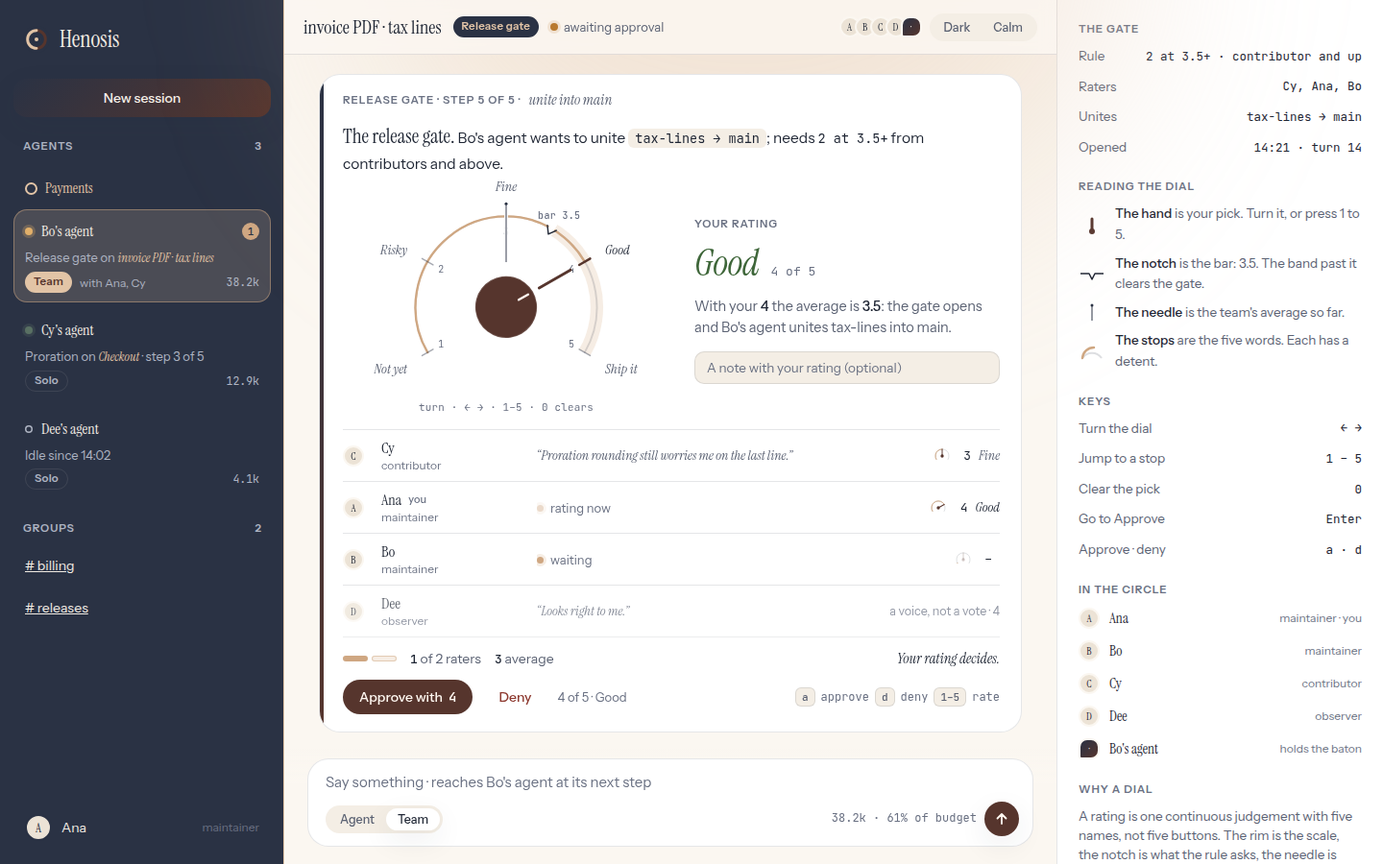
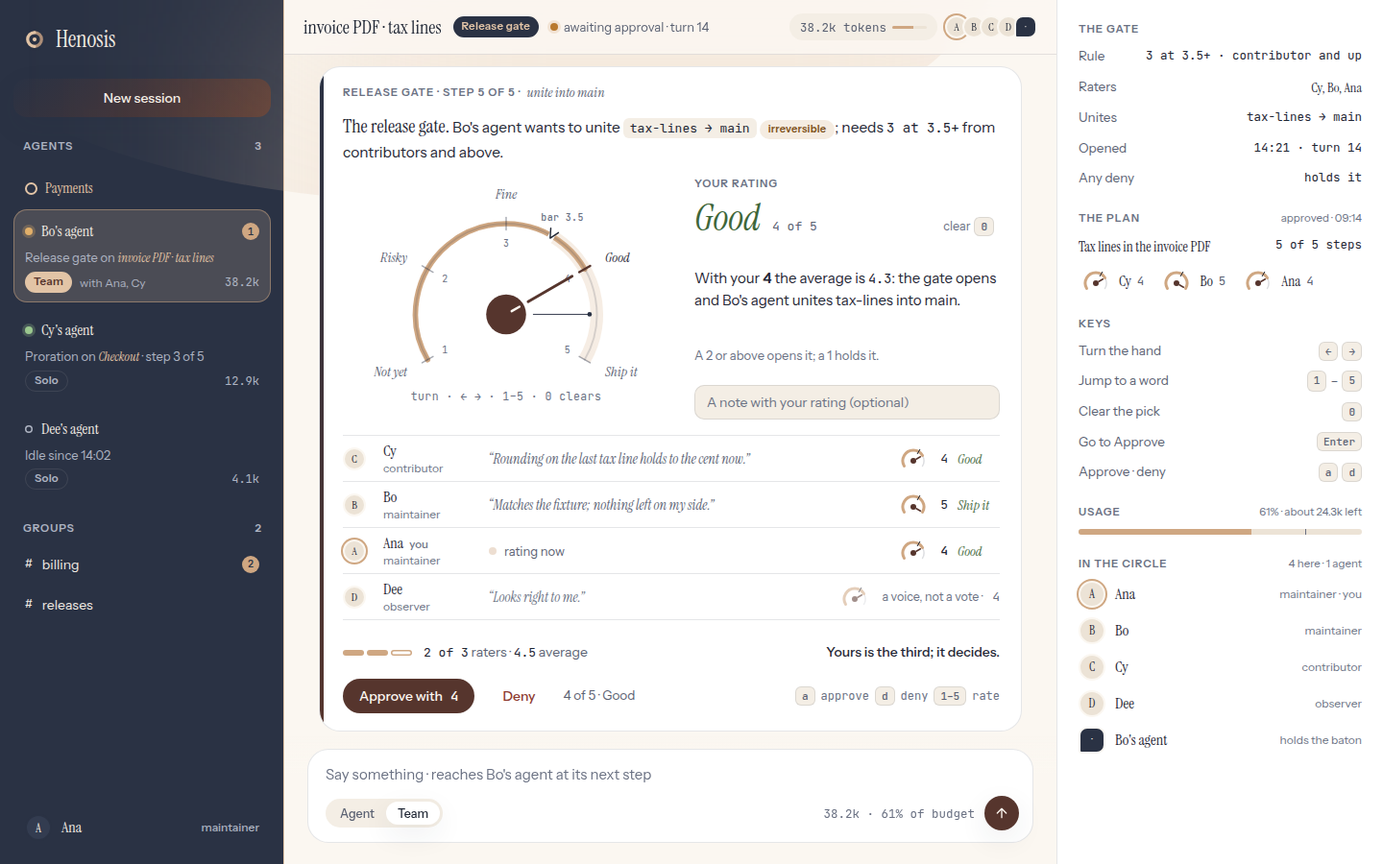
design: Henosis explorations, signature batch 25
The approval dial's renders and notes, revised while being shipped.

Claude-Session: https://claude.ai/code/session_01YPALfxci6V6KSAnMNM9o8c

diff --git a/design/henosis/explorations/sig-approval-dial/notes.md b/design/henosis/explorations/sig-approval-dial/notes.md
@@ -1,194 +1,242 @@
-# sig-approval-dial · The rating as a dial
+# sig-approval-dial · The rating as a dial (second pass)
 
-The release gate's rating control drawn as the instrument it is. A rim of five stops over 240°, each
-stop a serif word (Not yet, Risky, Fine, Good, Ship it) with a detent that pulls the hand in and
-clicks as it crosses. The rule's bar is cut into the rim as a notch, with the band past it washed
-apricot so the picks that clear the gate are a visible zone, not a sentence. The team's average so far
-is a thin needle from the centre. Your hand is the chocolate knob and its pointer; until you turn it
-the hand rests, dashed, at the 4 a plain Approve sends. The word, the number and the consequence sit
-beside the dial ("With your 4 the average is 3.5: the gate opens"), the ballots run under both as
-rows, each with a 26 px miniature of the same dial, and the one chocolate button carries the number it
-will send. Keys, drag and tap all turn the same hand.
+The release gate's 1–5 rating drawn as the instrument it is. A rim of five stops over 240°, each stop a
+serif word (Not yet, Risky, Fine, Good, Ship it) with a detent that pulls the hand in and clicks as it
+crosses. The rule's bar is cut into the rim as a notch and the band past it is washed apricot, so the
+picks that clear the gate are a zone you can see. The team's average so far is a thin needle from the
+centre. Your hand is the chocolate knob and its pointer; until you turn it the hand rests, dashed, at
+the 4 a plain Approve sends. Beside the face sit the word, the number and the consequence ("With your
+4 the average is 4.3: the gate opens"), the ballots run under both as rows each carrying a 36 px
+miniature of the same dial, and the one chocolate button carries the number it will send. Keys, drag
+and tap turn the same hand. When your approval lands and the gate opens, the rim's two ends swing down
+and close into a ring, chocolate on the person's side and navy on the agent's, and the centre lights
+apricot: the mark's own gesture, two arcs closing on one centre, performed by the gate itself.
+
+This is the second pass on the element. The first was judged 8.5 / 7.5 / 8.25 (`_judge-signature-1/2/3`)
+with seven concrete fixes, all taken here: the stop numbers moved inside the needle's reach and the
+needle drawn under the stops; the still shot with two ratings in so the needle sits between words;
+the phone's actions wrap and the hint takes its own line (the first page overflowed 39 px); your
+ballot row updates by two custom properties, never an `innerHTML` rebuild of four rows; the plan's
+ratings are the same miniature so a team learns one rating shape, and the "Reading the dial" legend
+is gone; the verdict is sans beside mono counts, one voice per row; the exploration's Dark and Calm
+buttons are `data-inspector` and hidden when the shooter opens the page (`navigator.webdriver`), so
+the stills show the product's topbar. Two of the first page's open questions are settled below.
 
 Files: `index.html` (self-contained: tokens inlined from `tokens.v5.css`, light and dark via
 `prefers-color-scheme` and `[data-theme]`, every animation inside the one guard with
 `prefers-reduced-motion` and `[data-motion="calm"]`, Fraunces and Inter asked for first with the
 Instrument and system faces as fallbacks, no external asset, no font fetched, no script loaded),
-`light.png`, `dark.png` (1440×900, the gate waiting for Ana's rating with her hand at 4), `phone.png`
-(390×844, the dial at the width of the thumb, the action at the bottom). The screenshots show the
-fallback faces: Fraunces and Inter are not on this machine and the page fetches nothing. `?pick=4`
-opens the page with the hand turned to a stop; `?locked` opens it after the approval; `?calm` opens it
-under Calm; the Dark and Calm buttons in the topbar are the exploration's own and set the attributes
-`theme.ts` sets.
+`light.png`, `dark.png` (1440×900, the gate waiting for Ana's rating with her hand at 4, Cy's 4 and
+Bo's 5 in, the needle at 4.5), `phone.png` (390×844, the dial at the width of the thumb, the action
+bar stuck at the bottom). The stills show the fallback faces: Fraunces and Inter are not on the
+render machine and the page fetches nothing. `?pick=N` opens the page with the hand turned to a stop,
+`?locked` opens it after the approval (the check drawn, the ring closed), `?calm` opens it under
+Calm, `?dark` in the dark theme.
 
 ## What it is
 
 | Part | What | Where |
 |---|---|---|
-| The rim | a 2 px arc of radius 100 on a 360 × 250 grid, from −120° to 120° with 0° at twelve, `pathLength="240"` so one unit is one degree; `--dial-rim` (navy at 16 %, cream at 16 % by night) | the dial |
-| The stops | five, 60° apart; a 14 px tick across the rim, the word outside in italic serif anchored by the side it sits on, the number inside in mono, a 48 px hit circle; the picked stop's tick turns chocolate and thickens | the rim |
-| The detent | while the hand is dragged its angle is `s + 4·d³` of the finger's value (`s` the nearest stop, `d` the distance to it, |d| ≤ ½), so the hand lingers at a word and jumps between words; crossing into a new stop pops that tick (`detent`, 180 ms, ×1.55) and, on touch, vibrates 6 ms; release snaps on `--ease-mark` over `--t` | the hand |
+| The rim | a 2 px arc of radius 100 on a 360 × 212 grid, from −120° to 120° with 0° at twelve, `pathLength="240"` so one unit is one degree; `--dial-rim` (navy at 16 %, cream at 16 % by night) | the dial |
+| The stops | five, 60° apart; a 14 px tick across the rim, the word outside at r 126 in italic serif anchored by the side it sits on, the number inside at r 78 in mono with a 3 px surface-coloured `paint-order: stroke` so it stays readable under the needle, a 48 px hit circle; the picked stop's tick turns chocolate and thickens | the rim |
+| The detent | while the hand is dragged its angle is `s + 4·d³` of the finger's value (`s` the nearest stop, `d` the distance to it, \|d\| ≤ ½), so the hand lingers at a word and jumps between words; crossing into a new stop pops that tick (`detent`, 180 ms, ×1.55) and, on Android, vibrates 6 ms; release snaps on `--ease-mark` over `--t` | the hand |
 | The notch | at the rule's bar (3.5): a 7 px cut through the rim in the surface colour and a V dented inward, `--dial-notch` (the ink); `bar 3.5` in tracked mono outside it | the rim |
 | The clear band | a 14 px arc in `--dial-zone` (apricot at 30 %, 14 % by night) from the notch to the end of the rim: where a pick clears the gate | behind the rim |
-| The needle | a 1 px line in `--dial-needle` (navy; apricot by night) from r 50 to r 114 with a cap at the tip and a 4 px surface-coloured halo under it so it cuts cleanly across a tick; rotated to the team's average of the ratings that count; hidden while there is none; turns on `--t-slow` when a rating lands | the centre |
-| The hand | a 34 px chocolate knob (`--dial-hand`, the lifted hand by night) with a cream slot, and a 3 px pointer from r 46 to r 86; `transform: rotate(var(--deg))` on `--ease-mark`; the knob sinks to .96 while pressed | the centre |
-| Rest | before a pick the hand points at `DEFAULT_RATING` with a dashed pointer and a dim slot, no fill arc, and the word reads "4 if you leave it" in `--ink-3`; the button still says "Approve with 4" (SYSTEM §10: no surface pre-selects a number with a primary colour) | the dial, the word |
-| The fill | the arc from the first stop to the hand in `--dial-fill` (apricot-deep; apricot by night), `stroke-dasharray: var(--len) 240`; a preview arc in `--dial-pre` (plain apricot: lighter than the pick, rating-control's rule) appears while a stop is hovered and the word beside says "3 of 5 · preview" | the rim |
-| The word | 38 px italic serif, coloured by level with the `-ink` tokens (danger 1, warn 2, ink 3, ok 4–5), the number in mono beside it, a crossfade (`word-in`) when it changes | right of the dial |
-| The consequence | the app's `Tally` arithmetic as a sentence: the average with your pick, whether it clears the bar, and the lowest next rating that would (`Bo at 5 would lift it`, `no third rating can lift it`) | under the word |
-| The ballots | the votes as rows (SYSTEM §10, surfaces panel): serif name with `you`, role in faint sans, the note in italic serif, the 26 px miniature dial with the number and the word; a waiting rater's miniature is empty with "waiting"; your row mirrors the big dial live under "rating now" with the breathing apricot dot; an observer's approve is "a voice, not a vote · 4", dimmed | under the dial and the word |
-| The tally | the quorum segments, `1 of 2 raters · 3 average`, and the verdict in italic serif ("Your rating decides.", "The gate opens.", "Under the bar: the release waits for Bo or a revision.") | under the rows |
-| The actions | *Approve with 4* (the hand, with the number in mono), *Deny* in the danger ink, the hint "4 of 5 · Good" or "4 if you leave it", the notice's keys `a` `d` `1–5` | last |
-| Locked | after Approve the hand stays, the slot and pointer fade, a check draws inside the knob (`draw`, 450 ms; drawn flat under Calm), the word gains "· sent", your row takes the note, the tally settles, a toast rises | the dial, the rows |
-| Keys | the dial is one `role="slider"` (1–5, `aria-valuetext` "4 of 5, Good"): ← → ↑ ↓ turn by one stop, 1–5 jump, Home/End, 0 clears to rest, Enter moves to *Approve with N*, Esc drops a preview; on the notice `a` approves, `d` denies, 1–5 rate while nobody types; a polite live region reads the word and the consequence | the dial, the notice |
-| Touch | the whole face is the drag surface (`touch-action: none`, pointer capture); a tap on a word picks it, a second tap on the pick clears; the bottom line reads "turn the hand, or tap a word" on coarse pointers | the phone |
-| Phone | the rail and drawer fold away, the dial fills the width with the words a step larger, the word and consequence centre under it, the rows lose their note column, *Approve with N* is a 46 px bar at the thumb | 390 |
+| The needle | a 1 px line in `--dial-needle` (navy; apricot by night) from r 30 to r 92 with a cap at the tip and a 4 px surface-coloured halo under it, drawn **under** the stops so a number stays whole when the average lands on a word; rotated to the team's average of the ratings that count; hidden while there is none; turns on `--t-slow` when a rating lands | the centre |
+| The hand | a 44 px chocolate knob (`--dial-hand` = the hand, lifted by night) with a cream slot, and a 3 px pointer from r 28 to r 84; `transform: rotate(var(--deg))` on `--ease-mark`; the knob sinks to .94 while pressed | the centre |
+| Rest | before a pick the hand points at `DEFAULT_RATING` with a dashed pointer and a dim slot, no fill arc; the word reads "Good" in `--ink-3` with "4 if you leave it" beside it and the sentence says "A plain Approve sends 4"; the button still says "Approve with 4" (SYSTEM §10: no surface pre-selects a number with a primary colour) | the dial, the word |
+| The fill | the arc from the first stop to the hand in `--dial-fill` (apricot-deep; apricot by night), `stroke-dasharray: var(--len) 240`; a preview arc in `--dial-pre` (plain apricot: lighter than the pick, rating-control's rule) appears while a stop is hovered and the number reads "3 of 5 · preview" | the rim |
+| The word | 38 px italic serif, coloured by level with the `-ink` tokens (danger 1–2, warn 3, ok 4–5), the number in mono beside it, "clear `0`" as a 24 px ghost when a pick is in, a crossfade (`word-in`) when it changes | right of the dial |
+| The consequence | the app's `Tally` arithmetic as two sentences: the average with your pick and whether it clears the bar; then the lowest pick that opens it ("A 2 or above opens it; a 1 holds it.", "No third rating can lift the average to the bar.") | under the word |
+| The ballots | the votes as rows (SYSTEM §10, surfaces panel): serif name with `you`, role in faint sans, the note in italic serif, the 36 × 28 miniature with the number and the word; a waiting rater's miniature is an empty dashed rim with "waiting"; your row mirrors the big dial live under "rating now" with the breathing apricot dot; an observer's approve is "a voice, not a vote · 4", dimmed | under the dial and the word |
+| The tally | the quorum segments (`role="meter"`), `2 of 3 raters · 4.5 average` with the counts in mono, and the verdict in sans 500 ("Yours is the third; it decides.", "The gate opens.", "Under the bar; waits for a revision."), coloured through `--ok-ink` / `--warn-ink` only once decided | under the rows |
+| The actions | *Approve with 4* (the hand, the number in mono), *Deny* in `--danger-ink`, the hint "4 of 5 · Good" or "4 if you leave it", the notice's keys `a` `d` `1–5` | last |
+| Locked | after Approve the hand stays, the slot and pointer fade, a check draws inside the knob (`draw`, 450 ms); if the gate opens, the rim's two ends swing to six o'clock (`ring-close`, 600 ms, the person's end chocolate, the agent's navy) and the centre lights (`centre-in`, an apricot ring round the knob); the word gains "· sent", your row takes your note, the tally settles, a toast rises on navy; under the bar the ring stays open and the verdict says so | the dial, the rows |
+| Keys | the dial is one `role="slider"` (1–5, `aria-valuetext` "4 of 5, Good" / "4 if you leave it", `aria-describedby` the consequence): ← → ↑ ↓ turn by one stop, 1–5 jump, Home/End, 0 clears to rest, Enter moves to *Approve with N*, Esc drops a preview; on the notice `a` approves, `d` denies, 1–5 rate and 0 clears while nobody types; a polite live region reads the word, the number and the consequence on every change | the dial, the notice |
+| Touch | the whole face is the drag surface (`touch-action: none`, pointer capture); a tap on a word picks it; the bottom line reads "turn the hand, or tap a word" on coarse pointers | the phone |
+| Phone | the rail and drawer fold away, the dial fills the width with the words a step larger, the word and consequence centre under it, the rows lose their note column, the actions are a bar stuck to the bottom of the stream (`position: sticky`; the notice's `overflow` becomes `clip-path` so it does not become the bar's scrollport) with *Approve with N* at 46 px and the hint on its own line | 390 |
+| The plan | the plan's rating row and the drawer's "The plan" group use the same miniature (`MiniDial`), so the shape a rater meets at 09:14 on the plan is the shape at 14:21 on the gate; no legend is needed anywhere | the stream, the drawer |
 
 ## Why it is ours
 
-- **It is the ring with a hand in it.** The brand is two arcs closing on one centre; a gate is the
-  team's arcs closing on one decision. The rim is the open ring (the mark's apart pose: not yet one),
-  the needle is where the others have put the centre so far, and your hand closes the gap or leaves it
-  open. The miniature in every ballot row is the same drawing, so a page of votes reads as a row of
-  small rings each with its hand (presence-and-agents §9, the agreement ring: closed where they agree,
-  open where they differ; data-craft §6, the rating glyph with a line at the required average).
+- **It is the ring with a hand in it, and it closes.** The brand is two arcs closing on one centre; a
+  gate is the team's arcs closing on one decision. The open rim is the mark's apart pose (not yet one),
+  the needle is where the others have put the centre so far, your hand closes the gap or leaves it
+  open, and when the gate opens the two ends of the rim swing down and meet: the person's end in
+  chocolate, the agent's in navy, the centre in apricot, the mark's own ground rule for cream (SYSTEM
+  §5, brand-board's table). The first pass only implied the mark through the rim; the panel said so,
+  and the ring-close is the answer. The miniature in every ballot row is the same drawing, so a page
+  of votes reads as a row of small rings each with its hand (presence-and-agents §9, the agreement
+  ring; data-craft §6, the rating glyph with a line at the required average).
 - **It refuses the five-star row.** Five stars is the rating control of every store and every chat
   product's thumbs-up grown by three; a dial with a notch and a needle is an instrument you read
   before you turn it, and it puts the three numbers a gate is about (your pick, the bar, the average)
-  on one face instead of in three sentences (ai-interfaces-avoid: the artifact becomes the interface;
-  Wattenberger's controls baked into the interface rather than prose). Nothing on it is a star, a
-  sparkle or a pill.
-- **Colour by job, one meaning each** (SYSTEM principles 1, 2, 4, 5). The rim and the needle are
-  navy stepped in lightness, data-craft's rule that data ink is Dress Blues; the fill is the pulse's
-  deep step like every meter; the only chocolate on the face is the knob and its pointer, because it
-  is the one thing you press, and the only other chocolate on the screen is *Approve with 4*; the
-  clear band is the apricot wash that elsewhere means "where you are"; the status hues appear only in
-  the word, against the gate, through the `-ink` tokens. By night the hand is the lifted chocolate and
-  the needle is apricot, so the drawing is the same at night (dark-mode: re-weighed, not inverted).
+  on one face instead of in three sentences (ai-interfaces-avoid: Wattenberger's controls baked into
+  the interface rather than prose; the artifact as the interface). Nothing on it is a star, a sparkle
+  or a pill. It is now the one rating shape in the product, on the plan as well as the gate (judge 3's
+  fix), so it is not a second idiom beside stars.
+- **Colour by job, one meaning each** (SYSTEM principles 1, 2, 4, 5; data-craft's palette rule). The
+  rim and the needle are navy stepped in lightness, the fill is the pulse's deep step like every
+  meter, the only chocolate on the face is the knob and its pointer because it is the one thing you
+  press, the only other chocolate on the screen is *Approve with 4*; the clear band is the apricot
+  wash that elsewhere means "where you are"; the status hues appear only in the word, against the
+  gate, through the `-ink` tokens. By night the hand is the lifted chocolate and the needle is apricot,
+  so the drawing is the same at night (dark-mode: re-weighed, not inverted). The closing arcs keep
+  their ground colours in both themes, like the mark's.
 - **The detent is motion that means something** (MOTION principles 1, 2, 7; motion-choreography: the
-  Family and Kowalski rules, interruptible, on the mark's curve, overshoot keyed by hand). The hand
-  travels on `--ease-mark`, the one curve for anything that travels; the click is the status pulse's
-  `pop` in miniature on the stop you crossed; the check is the granted approval's drawn stroke. Rest
-  is the end state: every transition reads the clocks, the clocks are zero under Calm and reduce, and
-  the page opens as a finished instrument at whatever state it is asked for.
-- **Progress bound to real arithmetic** (motion-choreography §6). The needle is `ratingProgress`'s
-  average, the notch is `rule.ratings.average`, the quorum segments are `rule.ratings.min`, the
-  consequence is `Tally`'s lift. Nothing on the face is decorative; the drawer's legend names each
-  part in a sentence so no colour carries a meaning alone (SYSTEM §18).
+  Kowalski and Family rules, interruptible, overshoot keyed by the hand). The hand travels on
+  `--ease-mark`, the one curve for anything that moves; the click is the status pulse's `pop` in
+  miniature on the stop you crossed; the check is the granted approval's drawn stroke (MOTION §6.5);
+  the ring-close is the join timeline in miniature (arcs then centre, MOTION §7). Rest is the end
+  state: every keyframe declares its `from`, the transitions read the clocks, the clocks are zero under
+  Calm and reduce, and the page opens as a finished instrument at whatever state it is asked for.
+- **Progress bound to real arithmetic** (motion-choreography §6, data-craft's annotation rule). The
+  needle is `ratingProgress`'s average, the notch is `rule.ratings.average`, the quorum segments are
+  `rule.ratings.min`, the consequence is `Tally`'s lift. Nothing on the face is decorative and nothing
+  needs a legend: every colour has its sentence beside it (SYSTEM §18).
 - **Named things are serif, read things are sans, counts are mono** (SYSTEM principle 6;
   editorial-type §7 for the tracked mono `bar 3.5` and the stop numbers; premium-product-ui §9
-  Fraunces for the words and the names, Inter for the consequence and the button). The five words are
-  the scale's names, so they are serif on the face and italic beside it; the pick's number is mono
-  wherever it appears, tabular, so "4 of 5" and "3.5 average" line up in every row.
+  Fraunces for the words and the names, Inter for the consequence and the button). The five words
+  are the scale's names, so they are serif on the face and italic beside it; the pick's number is mono
+  wherever it appears, tabular, so "4 of 5" and "4.5 average" line up in every row; the verdict is
+  sans because it is read, beside mono counts, one voice per row (judge 3's note).
 - **It is not Claude's, ChatGPT's or Linear's.** None of them rates anything with a dial; a gauge with
-  a notch for a rule and a needle for a team's average belongs to a product whose claim is that people
-  gate what agents ship. The navy rim, the apricot band and the chocolate hand keep it in the three
-  colours and off the clay-and-ivory of Claude (SYSTEM principle 10; three-colour-brands: take the
-  discipline, not the hue).
+  a notch for a rule, a needle for a team's average and a ring that closes when people and an agent
+  agree belongs to a product whose claim is that people gate what agents ship. The navy rim, the
+  apricot band and the chocolate hand keep it in the three colours and off the clay-and-ivory of
+  Claude (SYSTEM principle 10; three-colour-brands: take the discipline, not the hue).
 
 ## The technique
 
-- **One SVG, built once, driven by four custom properties.** The rim, the band, the notch, the five
-  stops and the needle are placed by `pt(angle, r)` at mount; after that the script only sets `--deg`
-  (the hand), `--len` (the fill, in degrees because `pathLength="240"`), `--plen` (the preview) and
-  `--avg-deg` (the needle) on the dial, and toggles `rest`, `previewing`, `dragging`, `pressing`,
-  `locked`, `noavg` and the stop's `cur` / `pre` / `click`. CSS does the rest: the hand and the
-  needle rotate with `transform-box: view-box; transform-origin: 180px 128px`, the fill is a dasharray
-  transition, the knob's press is a scale. Fifty SVG nodes.
+- **One SVG, built once, driven by four custom properties.** The band, the rim, the fill, the preview,
+  the closing arcs, the notch, the five stops, the needle and the hand are placed by `pt(angle, r)` at
+  mount; after that the script only sets `--deg` (the hand), `--len` (the fill, in degrees because
+  `pathLength="240"`), `--plen` (the preview) and `--avg-deg` (the needle) on the dial, and toggles
+  `rest`, `previewing`, `dragging`, `pressing`, `locked`, `open`, `noavg` and the stop's `cur` / `pre`
+  / `click`. CSS does the rest: the hand and the needle rotate with `transform-box: view-box;
+  transform-origin: 180px 136px`, the fill is a dasharray transition, the knob's press is a scale.
+  48 SVG nodes.
 - **The detent is one line of arithmetic**: `detent(v) = s + 4·(v − s)³`. Continuous at the half-way
   points (±½ → ±½), flat at the stops (the cube), so a finger sweeping the rim feels each word catch
   and let go. Crossing is detected on the rounded value, which is also what the pick becomes, so the
   hand can never rest between words. Pointer capture keeps the drag alive off the face; the bottom gap
   (beyond ±120°) resolves to the nearer end so a swipe past Ship it does not flip to Not yet.
+- **The ring-close is two dashoffsets.** Each closing arc is 60° of the same circle with
+  `pathLength="60"`, `stroke-dasharray: 60`, and its rest state (`stroke-dashoffset: 0`) is written on
+  `.dial.locked.open .close` outside the guard; the keyframe `ring-close` goes `from 60` to `0`, 400 ms
+  after the check starts, and `centre-in` pops the apricot ring at 950 ms, so under Calm the closed
+  ring and the lit centre are simply present (MOTION §3: a guard that only adds motion cannot hide a
+  rest state).
 - **Transitions for travel, keyframes for events, all under one guard.** The eight animation rules
-  (`detent`, `word-in`, `dot-live` ×2, `draw`, `toast-up`, `card-in`) live inside
-  `@media (prefers-reduced-motion: no-preference) { :root:not([data-motion="calm"]) … }`; the
+  (`detent`, `word-in`, `dot-live`, `draw`, `ring-close`, `centre-in`, `toast-up`, `card-in`) live
+  inside `@media (prefers-reduced-motion: no-preference) { :root:not([data-motion="calm"]) … }`; the
   transitions read `--t`, `--t-fast`, `--t-slow`, which the calm attribute and the reduce query set to
   zero. The click's class is removed on a 200 ms timer, never on `animationend`, which does not fire
-  under Calm. The drawn check's rest state (`stroke-dashoffset: 0`) is written on `.locked .check`
-  outside the guard, so Calm shows the check.
+  under Calm; the toast's delay reads `--motion` and is zero under Calm.
 - **The miniature is the same geometry at r 11**, a 36 × 28 view with the same `--deg` / `--len`
-  properties, so a ballot row and the big dial can never disagree about where 4 points.
-- **Accessibility.** The dial is a single `role="slider"` with `aria-valuetext`, described by the
-  consequence; the stops are hit areas inside it, not separate controls, so a screen reader meets one
-  thing with one value; the word, the number and the consequence are text beside every colour; the
-  needle and notch have their sentence in the drawer's legend; focus is the 2 px `--focus-ring` with
-  the 6 px halo on the dial's rounded box; the fastest change is the 180 ms click on a tick.
+  properties and the notch at the same angle, so a ballot row, the plan card and the big dial can
+  never disagree about where 4 points.
+- **Your row is two properties.** `render()` sets `--deg` and `--len` on your miniature and two words
+  in your row; the other rows are built once. The per-press cost that remains is the word's crossfade
+  restart (one forced layout) and the consequence sentence.
+- **Accessibility.** The dial is a single `role="slider"` with `aria-valuetext` and
+  `aria-describedby` on the consequence; the stops are hit areas inside it, not separate controls, so a
+  screen reader meets one thing with one value; the word, the number and the consequence are text
+  beside every colour; the quorum is a `role="meter"`; the live region reads each change once; focus
+  is the 2 px `--focus-ring` with the 6 px halo on the dial's rounded box; every control is 24 px or
+  more (measured: none under); the rail's role text is `--rail-muted` (6.6 : 1 on navy).
 
 ## The cost
 
-Measured headless (Chromium 1440×900 and 390×844), the page at `?pick=4`.
+Measured headless (Chromium 1440×900 and 390×844), the page at `?pick=4`, 200 key presses 1–5.
 
 | | 1440×900 | 390×844 |
 |---|---|---|
-| SVG nodes in the dial | 45 | 45 |
-| nodes in the four ballot rows | 54 | 54 |
-| script per key press (1–5), 200 presses | 5.2 ms | 2.9 ms |
+| SVG nodes in the dial | 48 | 48 |
+| nodes in the four ballot rows | 69 | 69 |
+| nodes on the page | 408 | 408 |
+| script per key press (1–5) | 1.9 ms | 3.4 ms |
+| animations running at rest | 1 (the breathing dot) | 1 |
+| animations running under reduce, locked | 0, the check drawn and the ring closed | 0 |
+| horizontal overflow | 0 px | 0 px |
+| controls under 24 px | none | none |
 | JS heap after mount | 9.5 MB (the page, not the dial) | 9.5 MB |
-| page, uncompressed | 66 KB (tokens, styles, the rail and drawer, the script) | |
-| at rest, Calm or reduce | still; no clock | |
+| page, uncompressed | 72 KB (tokens, styles, the rail and drawer, the script) | |
 
-The 5 ms per press is the exploration's own waste: `render()` rebuilds the four ballot rows with
-`innerHTML` and forces one layout to restart the word's crossfade. Dragging sets two custom properties
-per `pointermove` and nothing else, so the compositor animates one rotation and one dasharray; the
-click is one `transform` keyframe on a 14 px line. In the app the rows are React children and only
-your row's two properties change per press, so the per-press cost is the slider's `setState`.
+The 1.9 ms per press (5.2 ms in the first pass) is the consequence sentence plus the one forced layout
+that restarts the word's crossfade. Dragging sets two custom properties per `pointermove` and nothing
+else, so the compositor animates one rotation and one dasharray; the click is one `transform`
+keyframe on a 14 px line; the ring-close is two dashoffsets and one opacity. In the app your row is a
+React child and only its two properties change per press, so the per-press cost is the slider's
+`setState`.
 
 ## How it ports into `apps/web`
 
-The dial replaces `Stars` only where a gate is rated: the release-gate notice in the stream, its
-sheet on the phone, and the approvals queue's expanded row. The plan card keeps `Stars` (a plan has
-no bar and no needle; see Open).
+The dial replaces `Stars` everywhere a rating is picked, and `MiniDial` replaces `MiniStars`
+everywhere a rating is shown, so the product has one rating shape (judge 3's fix). The gate's face has
+the notch and the needle; the plan's face has neither (a plan's rule has a minimum but no bar), which
+is `bar={null}` and `average={null}` on the same component.
 
 1. **`apps/web/src/stream/RatingDial.tsx`** (new): the `<script>`'s builder as a component
-   `RatingDial({ value, onChange, onClear, bar, average, count, min, locked, size })`. `bar` and
-   `average` come from `ratingProgress(s, a)` (`approvalsQueue.ts`: `{ count, min, average, bar }`),
-   `value` is the notice's `rating` state, `onClear` the `0` key. Build the SVG once with JSX
-   (`useMemo` on `bar`); drive it with the four style properties and the classes exactly as the
-   exploration does; the detent, the drag and the keys are the exploration's handlers; `motionNow()`
-   / `useMotion()` is read only to skip the 200 ms click timer. Export `MiniDial({ value })` from the
-   same file for the rows.
-2. **`apps/web/src/stream/ApprovalNotice.tsx`**: in the `.rating` block, replace
-   `<Stars value={rating} onChange={setRating} />` (the line under `copy.plan.yourRating`) with
-   `<RatingDial value={rating} onChange={setRating} onClear={() => setRating(null)} bar={gate.bar}
-   average={gate.average} count={gate.count} min={gate.min} />`; move the `.picked` mono and the note
-   input beside it into the `.say` column; give `Tally` the verdict line and let `Ballot` (the rows
-   with `kind="waiting" | "voice"`) render `<MiniDial>` in place of `.mini` stars. `Decided` passes
-   `locked` so the dial draws its check. The `1–5` keys on the notice already exist (`onKeyDown`).
-3. **`apps/web/src/copy.ts`**: `approval.withoutPick(n)` becomes `"${n} if you leave it"`
-   (SYSTEM §10's hint), `approval.picked(n)` stays `"${n} of 5"`, and the consequence sentences
-   (`opens`, `underBar(lift)`, `cannotLift`) join `approval.oneMore` / `lifts` / `cannotLift`, which
-   already exist; the dial's `aria-valuetext` is `copy.rating.name(n)`.
-4. **`apps/web/src/tokens.css`**: the nine `--dial-*` properties (`rim`, `zone`, `fill`, `pre`,
-   `hand`, `hand-fg`, `needle`, `tick`, `notch`) in the light block and, byte-identical, in both dark
-   blocks (values in `index.html`'s `:root` and dark blocks). **`theme.ts`** `applyTeamTheme`: set
-   `--dial-hand` from the team's hand with the other `--team-*` properties.
-5. **`apps/web/src/styles.css`**: the rules under "the dial itself", "the ballots" and "the tally and
-   the actions" from `index.html` (about 90 lines) beside `.notice .rating`; the seven animation
-   rules into the existing guard block; the keyframes `detent` and `word-in` beside `pop` and
-   `dot-live`; the `≤ 640` star-tile block becomes the phone block from this page (the dial fills the
-   width, the action bar at the thumb).
-6. **`apps/web/src/views/Approvals.tsx`** (the queue) and the mobile approvals sheet: the expanded
-   row rates with `<RatingDial size="sm">` (the 340 px face at 260), the collapsed row shows
-   `<MiniDial>` per rater; the Slack adapter is untouched and still sends 4.
+   `RatingDial({ value, onChange, onClear, bar, average, count, min, locked, open, size })`. `bar`
+   and `average` come from `ratingProgress(s, a)` (`approvalsQueue.ts`: `{ count, min, average, bar }`),
+   `value` is the notice's `rating` state, `onClear` the `0` key, `open` whether the decided gate
+   cleared its bar (the ring closes only then). Build the SVG once with JSX (`useMemo` on `bar`);
+   drive it with the four style properties and the classes exactly as the exploration does; the
+   detent, the drag and the keys are the exploration's handlers; `motionNow()` / `useMotion()` is read
+   only to skip the 200 ms click timer and the toast's wait. Export `MiniDial({ value, bar? })` from
+   the same file for the rows.
+2. **`apps/web/src/stream/ApprovalNotice.tsx`**: in the `.rating` block, replace both branches
+   (`<StarTiles …>` on the phone and `<Stars value={rating} onChange={setRating} />` on desktop,
+   under `copy.plan.yourRating`) with one `<RatingDial value={rating} onChange={setRating}
+   onClear={() => setRating(null)} bar={gate.bar} average={gate.average} count={gate.count}
+   min={gate.min} />`; move the `.picked` mono and the note input beside it into the `.say` column;
+   give `Tally` the verdict line as sans; let `VoteRow` (`kind="rated" | "waiting" | "voice"`) render
+   `<MiniDial>` in place of `<MiniStars>`. `Decided` passes `locked` and `open` so the dial draws its
+   check and closes its ring. The `1–5` keys on the notice already exist (`onKeyDown`); add `0`.
+   `StarTiles.tsx` and the `.star-tiles` blocks in `styles.css` go.
+3. **`apps/web/src/stream/PlanCard.tsx`**: `<Stars value={mine?.rating ?? null} …>` becomes
+   `<RatingDial size="sm" bar={null} average={null} …>` on the `.rating` row, and the raters' chips
+   render `<MiniDial value={x.rating} />` for `<MiniStars n={x.rating} />`. `MiniStars` is then
+   unused and goes.
+4. **`apps/web/src/copy.ts`**: `approval.withoutPick(n)` becomes `ifYouLeaveIt(n)`'s text
+   ("4 if you leave it", SYSTEM §10's hint; `ifYouLeaveIt` already exists), `approval.picked(n)`
+   stays `"${n} of 5"`, and the two consequence sentences (`withYour(n, avg, opens)`,
+   `lowestOpens(lo)` / `cannotLift`) join `approval.oneMore` / `lifts` / `cannotLift`; the verdicts
+   `decidesThird`, `opens`, `underBar` beside `approval.decides`; the dial's `aria-valuetext` is
+   `copy.rating.name(n)`. `queue.ratingWord` keeps its own five words for the queue's compact rows or
+   takes `RATING_WORDS`, one decision.
+5. **`apps/web/src/tokens.css`**: the twelve `--dial-*` properties (`rim`, `zone`, `fill`, `pre`,
+   `hand`, `hand-fg`, `needle`, `tick`, `notch`, `arc-person`, `arc-agent`, `centre`) in the light
+   block and, byte-identical, in both dark blocks (values in `index.html`'s `:root` and dark blocks).
+   `--dial-hand` is `var(--accent)` so `theme.ts`'s `applyTeamTheme` recolours it with the team's
+   hand for free. These twelve are the dial's whole namespace (judge 1's finding 2).
+6. **`apps/web/src/styles.css`**: the rules under "the dial itself", "the miniature", "the ballots"
+   and "the tally and the actions" from `index.html` (about 110 lines) beside `.notice .rating`; the
+   eight animation rules into the existing guard block; the keyframes `detent`, `ring-close` and
+   `centre-in` beside `pop` and `dot-live`; the `≤ 640` block from this page in place of the
+   star-tile block (the dial fills the width, the action bar sticks; the notice takes `clip-path`
+   instead of `overflow: hidden` on the phone).
+7. **`apps/web/src/views/Approvals.tsx`** and **`ApprovalsPhone.tsx`**: the expanded row rates with
+   `<RatingDial size="sm">` (the 340 px face at 260), the collapsed row shows `<MiniDial>` per rater;
+   the Slack adapter is untouched and still sends `DEFAULT_RATING`.
+
+## Settled from the first pass
+
+- **Arrows turn; hover previews.** The hand *is* the pick, so arrows turn it and Enter goes to the
+  button; hover is the one preview and Esc drops it. SYSTEM §10's "arrows preview, Enter picks" was
+  written for stars, where the pick is a separate press; on a dial a second dashed state would be a
+  second thing to learn for no gain.
+- **0 clears, a second tap does not.** The first pass cleared on a second tap of the picked word,
+  which is the accidental clear rating-control worried about in the queue. Now a tap on the pick does
+  nothing, `0` clears, and "clear `0`" is a 24 px ghost beside the word so the mouse has a way too.
 
 ## Open
 
-- **Arrows turn or preview?** SYSTEM §10's stars preview on arrows and pick on Enter. On a dial the
-  hand *is* the pick, so arrows turn it and Enter goes to the button; the page keeps hover as the one
-  preview. If the panel wants arrows to preview, the hand can turn dashed (the rest style) until Enter,
-  at the cost of a second state to learn.
-- **The needle on a stop.** With one rating in, the average always sits on a word and the needle lies
-  along that tick; the halo keeps it legible, but a needle that lands between words (two or more
-  ratings) is the better picture. The screenshots show the one-rating case on purpose, because that is
-  the case the second rater meets most.
-- **Clearing by a second tap** on the picked word (as here) against 0 only: the queue's accidental
-  clears are the worry rating-control raised and this page does not settle.
-- **The plan card.** A plan's ratings rule has a minimum but no bar, and the needle would be the
-  average of the team's ratings; the dial without a notch may still be worth it for the plan's
-  "waits for two ratings" line, or the plan keeps stars and the dial stays the gate's signature. One
-  pass with both on a plan card would settle it.
-- **A bar of 4.5** puts the notch 15° from Ship it; the `bar` label then wants to sit inside the rim.
+- **A bar of 4.5** puts the notch 15° from Ship it and `bar 4.5` would sit over the word; the label
+  then wants to move inside the rim. One rule in the product has it; one pass with that rule.
+- **The plan's dial without a notch** is specified above but not drawn here; the plan-card's rating
+  row is the place to check that the face without a band still reads as the same instrument.
 - **Haptics on the web** are a 6 ms vibrate on Android only; iOS Safari gives none. The detent's
-  visual click and the word's change carry the feel on the phone; whether the desktop app (Tauri)
-  should ask the trackpad for a haptic tick is a desktop-window question.
+  visual click and the word's change carry the feel on the phone; whether the desktop app should ask
+  the trackpad for a haptic tick is a desktop-window question.
